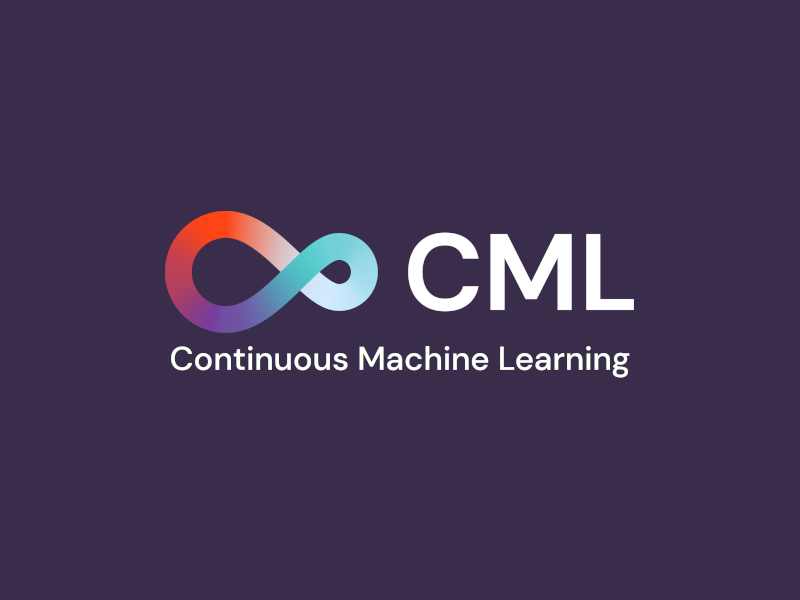
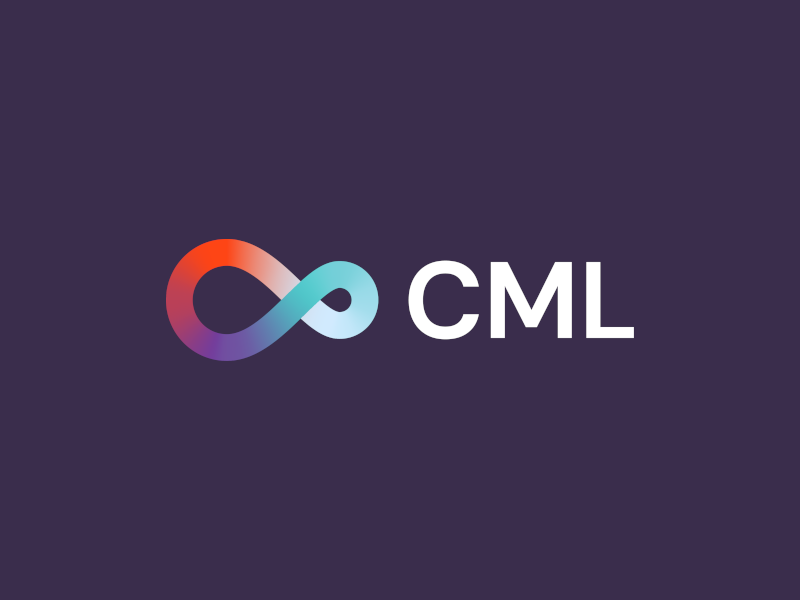
Design changes 1: all the simple stuff
This PR implements a lot of feedback:

- A new social image with the small text removed
- Changes based on Figma comments (other than moving buttons, which will take
  its own lower priority because it's a longer task, though I'll get to it)
- SVGs now have namespaced IDs to guarantee no collision.

Changed region(s): [[0.1875, 0.33, 0.8125, 0.63]]

diff --git a/src/gatsby-plugin-theme-ui/index.js b/src/gatsby-plugin-theme-ui/index.js
@@ -65,12 +65,14 @@ export default {
     },
     Header: {
       color: "background",
-      pt: [3, null, 0],
+      pt: [3, "20px"],
+      px: [2, "40px"],
       Logo: {
         display: "block",
         flex: "0 1 auto",
-        pt: "1rem",
-        pb: ["0.5rem", null, "1rem"],
+        pt: "10px",
+        pb: ["0.5rem", null, "10px"],
+        px: "10px",
         width: ["100%", null, "auto"],
         img: {
           maxWidth: ["154px", null, "115px"],
@@ -87,7 +89,7 @@ export default {
         flexWrap: "nowrap",
         alignItems: "center",
         flexFlow: ["column", null, "row"],
-        height: "100px",
+        px: 0,
       },
       Nav: {
         px: 0,
@@ -97,13 +99,22 @@ export default {
         justifyContent: ["center", null, "flex-end"],
         flex: "1",
         Link: {
-          px: 2,
+          ml: "10px",
           py: "6px",
-          fontSize: 2,
+          px: "10px",
+          fontSize: "18px",
           fontWeight: "normal",
           height: "48px",
           textAlign: "center",
           lineHeight: "36px",
+          color: alpha("background", 0.7),
+          transition: "color 0.25s",
+          "&:hover": {
+            color: "background",
+          },
+          "&:first-of-type": {
+            ml: 0,
+          },
         },
       },
     },
@@ -148,10 +159,18 @@ export default {
           fontWeight: "normal",
           px: 2,
           py: "6px",
-          fontSize: 2,
+          fontSize: "18px",
           height: "48px",
           textAlign: "center",
-          lineHeight: "36px",
+          lineHeight: "28px",
+          color: alpha("background", 0.7),
+          transition: "color 0.25s",
+          "&:hover": {
+            color: "background",
+          },
+          "&:first-of-type": {
+            ml: 0,
+          },
         },
       },
       SocialIcons: {
@@ -201,9 +220,11 @@ export default {
       px: 1,
     },
     primary: {
-      lineHeight: "50px",
-      height: "50px",
       variant: "buttons.base",
+      lineHeight: "50px",
+      fontSize: "18px",
+      letterSpacing: "0.02em",
+      height: "50px",
       backgroundColor: "primary",
       color: "white",
       border: "none",
@@ -212,6 +233,26 @@ export default {
       "&:hover": {
         bg: "purple.2",
       },
+    },
+  },
+  copy: {
+    variant: "buttons.base",
+    cursor: "pointer",
+    py: 0,
+    fontSize: "14px",
+    height: "30px",
+    width: "86px",
+    color: "white",
+    backgroundColor: "#24ADC5",
+    "&:hover": {
+      backgroundColor: "#2698AB",
+    },
+    "&:disabled": {
+      opacity: "0.4",
+    },
+    "&:focus": {
+      border: "1px solid #4A3F63",
+      outline: "none",
     },
   },
   links: {
@@ -235,28 +276,39 @@ export default {
     },
     RepoButton: {
       variant: "buttons.base",
+      textAlign: "center",
+      width: "96px",
       display: "flex",
       flexFlow: "row nowrap",
       alignItems: "center",
-      justifyContent: "center",
+      justifyContent: "space-between",
       minWidth: "95px",
       color: "background",
       border: "1px solid",
-      borderColor: "background",
+      borderColor: alpha("background", 0.3),
       height: "30px",
       py: "8px",
+      px: "6px",
       mx: "4px",
       fontSize: "14px",
       textDecoration: "none",
-      "&:hover": { color: "inherit" },
+      letterSpacing: "0.01em",
+      "&:hover": {
+        backgroundColor: alpha("background", 0.3),
+      },
+      "&:focus": {
+        outline: "none",
+        borderColor: "background",
+      },
+      "&:disabled": {
+        color: alpha("background", 0.5),
+      },
       "&>svg, &>img": {
-        mr: "-0.25em",
-        ml: "0.5em",
+        color: alpha("background", 0.6),
       },
       ">span": {
-        height: "20px",
-        mx: ".8em",
         display: "inline-block",
+        flex: "1 1",
       },
     },
   },
@@ -273,6 +325,7 @@ export default {
       color: "black",
       borderRadius: "1.5rem",
       pr: "2px",
+      fontSize: "18px",
       Input: {
         variant: "forms.partial",
         pl: "1rem",
@@ -288,6 +341,7 @@ export default {
         borderRadius: "1.5rem",
         lineHeight: "1.5rem",
         flex: "0 0 auto",
+        letterSpacing: "0.02em",
       },
     },
   },
@@ -457,7 +511,8 @@ export default {
       p: 0,
       listStyle: "none",
       color: "text",
-      fontSize: ["12px", null, "14px", "22px"],
+      fontSize: ["12px", null, "16px", "22px"],
+      lineHeight: "32px",
       maxWidth: [null, "586px", "834px"],
       Item: {
         display: "flex",
@@ -498,7 +553,7 @@ export default {
         overflow: "hidden",
         borderBottomRightRadius: [0, null, 1],
         borderBottomLeftRadius: [0, null, 1],
-        borderTopRightRadius: [0, null, 1],
+        borderTopRightRadius: 0,
         borderTopLeftRadius: 0,
         Active: {
           width: "100%",
@@ -547,7 +602,7 @@ export default {
 
         transition: "opacity 0.2s",
         ":last-of-type": {
-          marginRight: [null, null, "2rem"],
+          mr: 0,
         },
 
         "&:hover": {

diff --git a/src/gatsby-plugin-theme-ui/components.js b/src/gatsby-plugin-theme-ui/components.js
@@ -89,28 +89,40 @@ const HomeFeature = ({ children, heading, icon: Icon }) => {
   return (
     <Box
       sx={{
-        borderTopStyle: ["solid", null, "none"],
-        borderLeftStyle: ["none", null, "solid"],
+        borderTopStyle: ["solid", null, null, "none"],
+        borderLeftStyle: ["none", null, null, "solid"],
         borderWidth: "1px",
         borderColor: "rgba(255,255,255,0.3)",
         mx: "auto",
-        px: [1, null, 2],
-        py: ["40px", "25px"],
+        px: [1, null, "35px"],
+        py: "1px",
         maxWidth: "600px",
         svg: {
-          mb: ["20px", null, "30px"],
+          mb: ["20px", null, null, "30px"],
         },
         "&:first-of-type": {
           borderTop: "none",
           borderLeft: "none",
+          pl: "30px",
+        },
+        "&:last-of-type": {
+          pr: "30px",
         },
       }}
     >
-      <Icon />
-      <Heading as="h3" sx={{ my: 3 }}>
-        {heading}
-      </Heading>
-      <Box>{children}</Box>
+      <Box
+        sx={{
+          maxWidth: "500px",
+          my: ["40px", "25px"],
+          mx: "auto",
+        }}
+      >
+        <Icon />
+        <Heading as="h3" sx={{ my: 3 }}>
+          {heading}
+        </Heading>
+        <Box>{children}</Box>
+      </Box>
     </Box>
   )
 }
@@ -177,15 +189,7 @@ const Code = ({ children, lang, filename, repo, sx = {} }) => {
           <Flex sx={{ flex: "0 0 auto", justifyContent: "center" }}>
             {repo && <RepoButton url={repo} />}
             <Button
-              sx={{
-                backgroundColor: "cyan.0",
-                "&:hover": { backgroundColor: "cyan.1" },
-                lineHeight: "21px",
-                height: "30px",
-                borderRadius: "30px",
-                fontSize: "14px",
-                py: 0,
-              }}
+              variant="copy"
               onClick={e => {
                 e.preventDefault()
                 const pre = codeBlockRef.current

diff --git a/src/components/molecules/SubscribeSection/index.js b/src/components/molecules/SubscribeSection/index.js
@@ -15,8 +15,8 @@ function SubscribeSection() {
           color: "white",
           textAlign: "center",
           fontWeight: "700",
-          fontSize: 4,
-          mb: [4, 5],
+          fontSize: "32px",
+          mb: "40px",
           "&>span": {
             whiteSpace: "nowrap",
           },

diff --git a/src/components/organisms/Tooltip/index.js b/src/components/organisms/Tooltip/index.js
@@ -30,6 +30,7 @@ const Tooltip = ({
         variant: "styles.Highlight",
         position: "relative",
         "& span": {
+          color: mix("background", color, 0.2),
           backgroundColor: alpha(color, 0.2),
         },
         ":before": {
